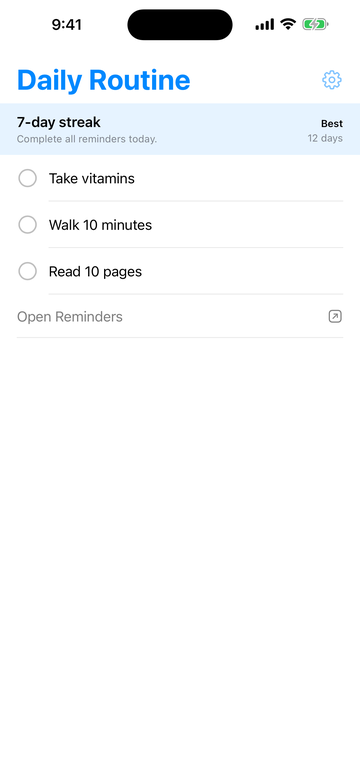
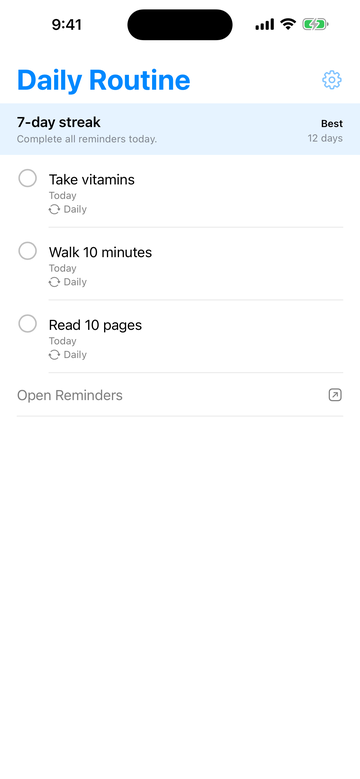
Update screenshots and make it easier to take screenshots

diff --git a/RemindersWidget/ContentView.swift b/RemindersWidget/ContentView.swift
@@ -1,5 +1,8 @@
 import EventKit
 import SwiftUI
+#if DEBUG
+import UIKit
+#endif
 import WidgetKit
 
 struct ContentView: View {
@@ -11,6 +14,9 @@ struct ContentView: View {
     @State private var showSettings = false
     @State private var previewReminders: [ReminderItem] = []
     @State private var previewFetchTask: Task<Void, Never>?
+#if DEBUG
+    @State private var screenshotSeedTask: Task<Void, Never>?
+#endif
     @State private var streakState: StreakState = .empty
     @State private var pendingStreakChange: PendingStreakChange?
     @State private var showStreakResetConfirmation = false
@@ -47,6 +53,12 @@ struct ContentView: View {
             settingsSheet
         }
         .onAppear {
+#if DEBUG
+            if shouldSeedScreenshots {
+                seedScreenshotData()
+                return
+            }
+#endif
             authStatus = EKEventStore.authorizationStatus(for: .reminder)
             loadStreakState()
             if authStatus == .fullAccess {
@@ -56,6 +68,11 @@ struct ContentView: View {
             if selectedListID == nil || authStatus != .fullAccess {
                 showSettings = true
             }
+#if DEBUG
+            if shouldShowSettingsForScreenshots {
+                showSettings = true
+            }
+#endif
         }
         .onChange(of: scenePhase) { _, newPhase in
             // The user can grant Reminders access from system Settings while we're backgrounded.
@@ -433,12 +450,140 @@ struct ContentView: View {
             previewReminders = Array(sortReminders(items).prefix(3))
         }
     }
+
+#if DEBUG
+    private var shouldSeedScreenshots: Bool {
+        ProcessInfo.processInfo.arguments.contains("--seed-screenshots")
+    }
+
+    private var shouldShowSettingsForScreenshots: Bool {
+        ProcessInfo.processInfo.arguments.contains("--show-settings-screenshot")
+    }
+
+    @MainActor private func seedScreenshotData() {
+        guard screenshotSeedTask == nil else { return }
+
+        screenshotSeedTask = Task { @MainActor in
+            do {
+                authStatus = try await ScreenshotSeed.run(eventStore: eventStore)
+                loadStreakState()
+                loadLists()
+                loadSelectedList()
+                showSettings = shouldShowSettingsForScreenshots
+                WidgetCenter.shared.reloadAllTimelines()
+            } catch {
+                authStatus = EKEventStore.authorizationStatus(for: .reminder)
+                if authStatus == .fullAccess {
+                    loadLists()
+                    loadSelectedList()
+                }
+                showSettings = selectedListID == nil || authStatus != .fullAccess
+            }
+
+            screenshotSeedTask = nil
+        }
+    }
+#endif
 }
 
 private enum PendingStreakChange {
     case list(id: String, title: String, color: Color)
     case mode(StreakMode)
 }
+
+#if DEBUG
+private enum ScreenshotSeed {
+    private static let listTitle = "Daily Routine"
+    private static let reminderTitles = ["Take vitamins", "Walk 10 minutes", "Read 10 pages"]
+
+    enum SeedError: Error {
+        case remindersAccessUnavailable
+        case missingReminderSource
+    }
+
+    @MainActor static func run(eventStore: EKEventStore) async throws -> EKAuthorizationStatus {
+        var status = EKEventStore.authorizationStatus(for: .reminder)
+        if status != .fullAccess {
+            _ = try? await eventStore.requestFullAccessToReminders()
+            status = EKEventStore.authorizationStatus(for: .reminder)
+        }
+        guard status == .fullAccess else { throw SeedError.remindersAccessUnavailable }
+
+        let calendar = try ensureCalendar(in: eventStore)
+        let existing = await fetchReminders(in: calendar, eventStore: eventStore)
+        for reminder in existing where reminderTitles.contains(reminder.title ?? "") {
+            try eventStore.remove(reminder, commit: true)
+        }
+
+        for title in reminderTitles {
+            let reminder = EKReminder(eventStore: eventStore)
+            reminder.title = title
+            reminder.calendar = calendar
+
+            var dueDate = Calendar.current.dateComponents([.year, .month, .day], from: Date())
+            dueDate.calendar = Calendar.current
+            reminder.dueDateComponents = dueDate
+
+            let recurrence = EKRecurrenceRule(recurrenceWith: .daily, interval: 1, end: nil)
+            reminder.addRecurrenceRule(recurrence)
+
+            try eventStore.save(reminder, commit: true)
+        }
+
+        var selectedListStore = SelectedListStore()
+        selectedListStore.selectedListID = calendar.calendarIdentifier
+        selectedListStore.selectedListTitle = calendar.title
+
+        var streakStore = StreakStore()
+        let yesterday = Calendar.current.date(
+            byAdding: .day,
+            value: -1,
+            to: Calendar.current.startOfDay(for: Date())
+        )
+        streakStore.state = StreakState(
+            mode: .emptyList,
+            listID: calendar.calendarIdentifier,
+            currentCount: 7,
+            bestCount: 12,
+            lastQualifiedDay: yesterday
+        )
+
+        UserDefaults(suiteName: "group.com.brianpattison.RemindersWidget")?.synchronize()
+        return status
+    }
+
+    @MainActor private static func ensureCalendar(in eventStore: EKEventStore) throws -> EKCalendar {
+        if let calendar = eventStore.calendars(for: .reminder)
+            .first(where: { $0.title == listTitle && $0.allowsContentModifications })
+        {
+            return calendar
+        }
+
+        guard let source = eventStore.defaultCalendarForNewReminders()?.source
+            ?? eventStore.sources.first(where: { $0.sourceType == .local })
+            ?? eventStore.sources.first
+        else {
+            throw SeedError.missingReminderSource
+        }
+
+        let calendar = EKCalendar(for: .reminder, eventStore: eventStore)
+        calendar.title = listTitle
+        calendar.cgColor = UIColor.systemBlue.cgColor
+        calendar.source = source
+        try eventStore.saveCalendar(calendar, commit: true)
+        return calendar
+    }
+
+    @MainActor private static func fetchReminders(in calendar: EKCalendar, eventStore: EKEventStore) async -> [EKReminder] {
+        let predicate = eventStore.predicateForReminders(in: [calendar])
+        return await withCheckedContinuation { continuation in
+            eventStore.fetchReminders(matching: predicate) { reminders in
+                continuation.resume(returning: reminders ?? [])
+            }
+        }
+    }
+}
+#endif
 
 private struct WidgetListSelectionView: View {
     let lists: [(id: String, title: String, color: Color)]

diff --git a/docs/SCREENSHOTS.md b/docs/SCREENSHOTS.md
@@ -21,7 +21,7 @@ The `6.5` filenames are historical. Keep the filenames stable unless the website
 Use habit-style reminders so the streak feature makes sense:
 
 - List: `Daily Routine`
-- Reminders:
+- Reminders, each set to repeat `Daily`:
   - `Take vitamins`
   - `Walk 10 minutes`
   - `Read 10 pages`
@@ -87,34 +87,19 @@ xcrun simctl install "$IPAD" "$APP"
 
 ## Seed The Simulator
 
-The simplest reliable path is manual setup in Simulator:
-
-1. Open Reminders in each simulator.
-2. Create the `Daily Routine` list.
-3. Add the three reminders listed above.
-4. Launch `Lock Screen`.
-5. In the app settings sheet, choose `Daily Routine`.
-6. Set the streak goal to `Complete All`.
-
-After selecting the list, set the streak defaults so the app shows `7-day streak` on launch. `Complete All` still uses the stored raw value `emptyList`. Run this once per device:
+Use the debug screenshot seed launch flag. It creates the `Daily Routine` list, adds the three sample reminders, sets each reminder to repeat `Daily`, selects the list, and sets the screenshot streak state:
 
 ```bash
-DEVICE="$PHONE" # then repeat with DEVICE="$IPAD"
-GROUP=$(xcrun simctl get_app_container "$DEVICE" "$APP_ID" groups | awk '/group.com.brianpattison.RemindersWidget/{print $2}')
-PREF="$GROUP/Library/Preferences/group.com.brianpattison.RemindersWidget.plist"
-LIST_ID=$(/usr/libexec/PlistBuddy -c "Print :selectedListID" "$PREF")
-YESTERDAY=$(date -v-1d -v0H -v0M -v0S +%s)
-
-/usr/libexec/PlistBuddy -c "Set :streakMode emptyList" "$PREF" 2>/dev/null || /usr/libexec/PlistBuddy -c "Add :streakMode string emptyList" "$PREF"
-/usr/libexec/PlistBuddy -c "Set :streakListID $LIST_ID" "$PREF" 2>/dev/null || /usr/libexec/PlistBuddy -c "Add :streakListID string $LIST_ID" "$PREF"
-/usr/libexec/PlistBuddy -c "Set :streakCurrentCount 7" "$PREF" 2>/dev/null || /usr/libexec/PlistBuddy -c "Add :streakCurrentCount integer 7" "$PREF"
-/usr/libexec/PlistBuddy -c "Set :streakBestCount 12" "$PREF" 2>/dev/null || /usr/libexec/PlistBuddy -c "Add :streakBestCount integer 12" "$PREF"
-/usr/libexec/PlistBuddy -c "Set :streakLastQualifiedDay $YESTERDAY" "$PREF" 2>/dev/null || /usr/libexec/PlistBuddy -c "Add :streakLastQualifiedDay real $YESTERDAY" "$PREF"
+xcrun simctl launch --terminate-running-process "$PHONE" "$APP_ID" --seed-screenshots
+xcrun simctl launch --terminate-running-process "$IPAD" "$APP_ID" --seed-screenshots
+sleep 5
 ```
 
-The app should keep the `7-day streak` count and show `Complete all reminders today.` until the sample reminders are completed.
+The app should keep the `7-day streak` count, show `Complete all reminders today.`, and display `Today` plus a `Daily` recurrence label under each sample reminder until they are completed.
 
 ## Capture App Screens
+
+Before capturing, confirm the list view shows a `Daily` recurrence label under each reminder.
 
 Launch normally for the list view:
 
@@ -128,10 +113,12 @@ sleep 2
 xcrun simctl io "$IPAD" screenshot docs/screenshot-list-view-ipad-13.png
 ```
 
-For the settings screenshots, open the app and tap the gear button, then capture:
+For the settings screenshots, open the app and tap the gear button, then capture. On iPad, use the screenshot settings flag so the sheet opens over the seeded list with the recurring labels visible in the dimmed background:
 
 ```bash
 xcrun simctl io "$PHONE" screenshot docs/screenshot-list-selection-6.5.png
+xcrun simctl launch --terminate-running-process "$IPAD" "$APP_ID" --seed-screenshots --show-settings-screenshot
+sleep 5
 xcrun simctl io "$IPAD" screenshot docs/screenshot-list-selection-ipad-13.png
 ```
 

diff --git a/docs/app-store-submission.md b/docs/app-store-submission.md
@@ -149,13 +149,13 @@ Since this is a Lock Screen widget app with a useful host app, screenshots shoul
 
 **Screenshot 1 -- The Widget in Action**
 - Show an iPhone Lock Screen with the Reminders Widget visible in the widget area below the clock.
-- The widget should display 3 reminders from a realistic-looking habit list (e.g., "Daily Routine" with items like "Take vitamins," "Walk 10 minutes," and "Read 10 pages").
+- The widget should display 3 reminders from a realistic-looking habit list (e.g., "Daily Routine" with daily repeating items like "Take vitamins," "Walk 10 minutes," and "Read 10 pages").
 - This is your hero screenshot. It should immediately communicate what the app does.
 - Consider adding a brief overlay caption: "See 3 reminders on your Lock Screen"
 
 **Screenshot 2 -- Native List View**
 - Show the app displaying the selected reminder list with the streak summary at the top.
-- Include a few realistic reminders and the "Open Reminders" action.
+- Include a few realistic daily repeating reminders with the recurrence label visible, plus the "Open Reminders" action.
 - Overlay caption: "View and complete the selected list"
 
 **Screenshot 3 -- List Selection and Streak Goal**
@@ -176,7 +176,7 @@ Since this is a Lock Screen widget app with a useful host app, screenshots shoul
 
 ### Important Notes
 
-- Populate the Reminders app in Simulator with sample data before capturing screenshots. You can do this by opening the Reminders app in Simulator and adding items manually, or by using EventKit in a test to create sample reminders.
+- Populate the Reminders app in Simulator with sample data before capturing screenshots. Use the `Daily Routine` list with each sample reminder set to repeat daily. You can do this by opening the Reminders app in Simulator and adding items manually, or by using EventKit in a test to create sample reminders.
 - Make sure the Lock Screen looks clean: use a simple wallpaper, set an appropriate time (like 9:41 AM, which Apple uses in marketing), and remove distracting notifications.
 
 ---
